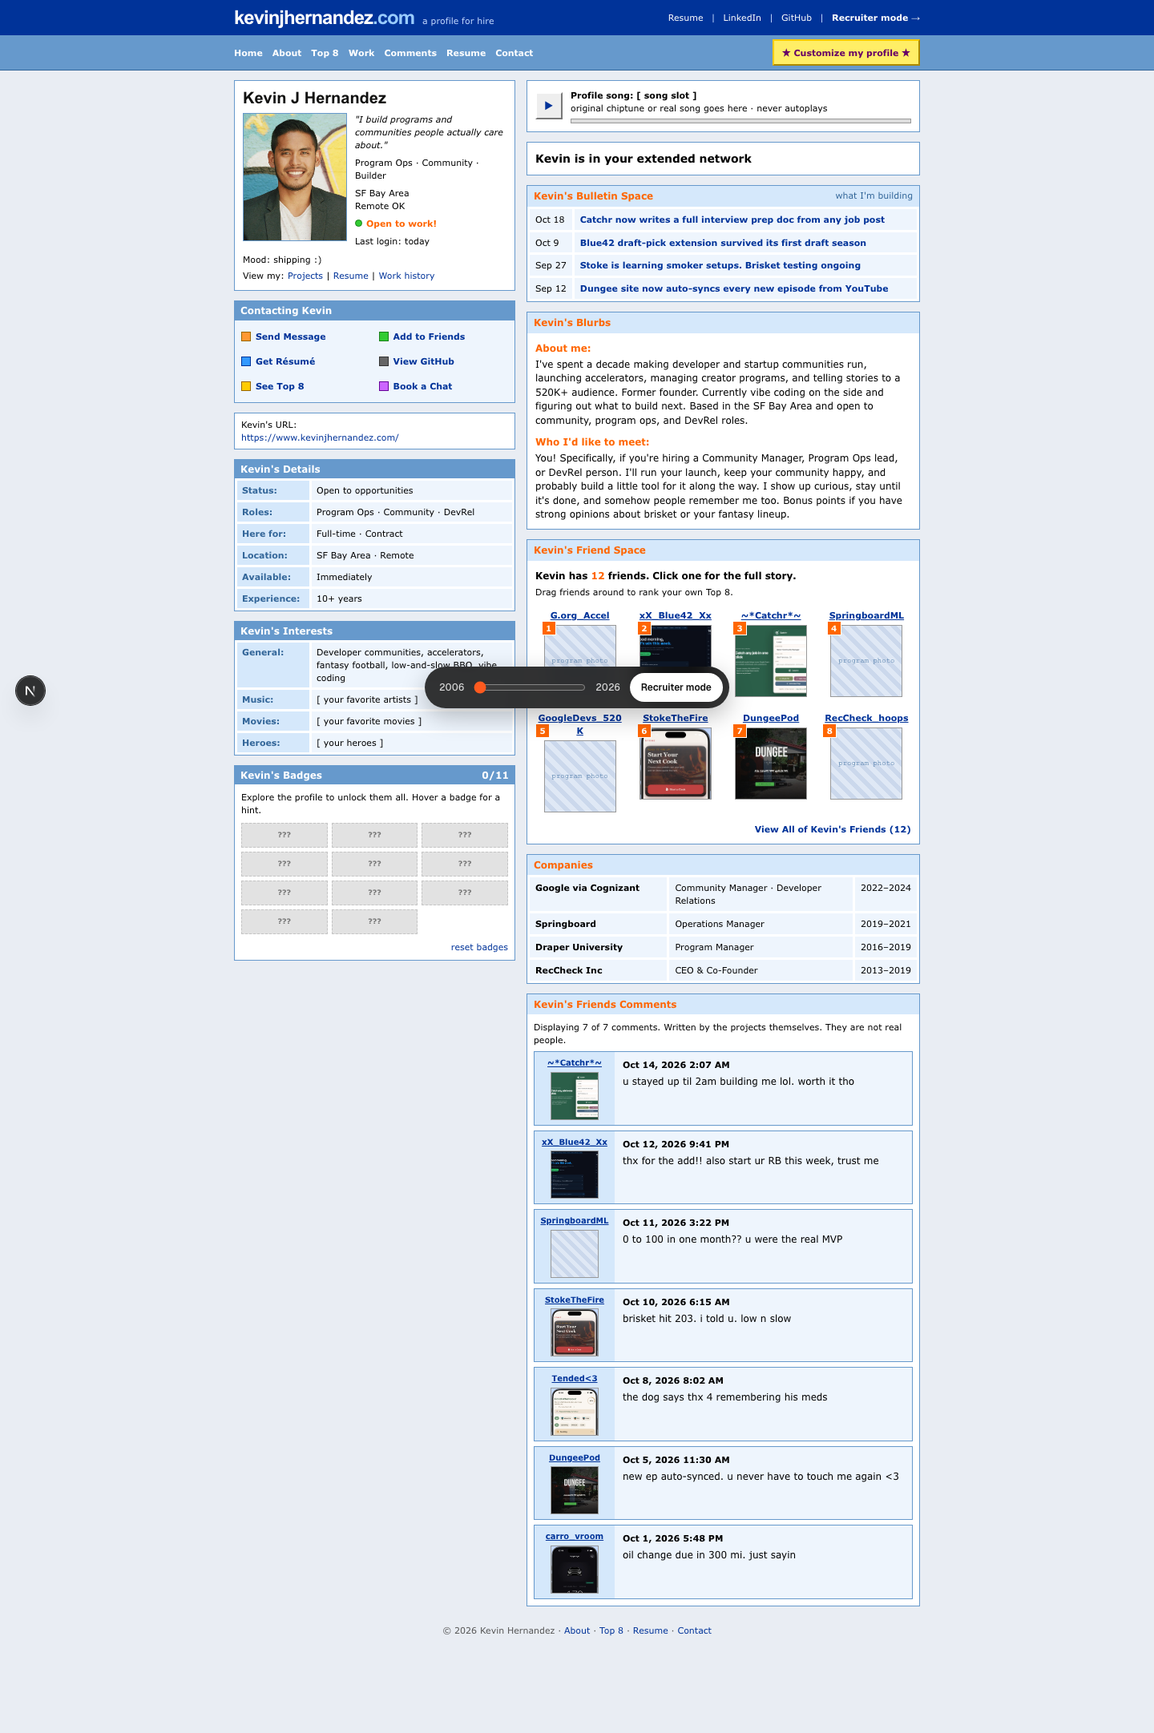
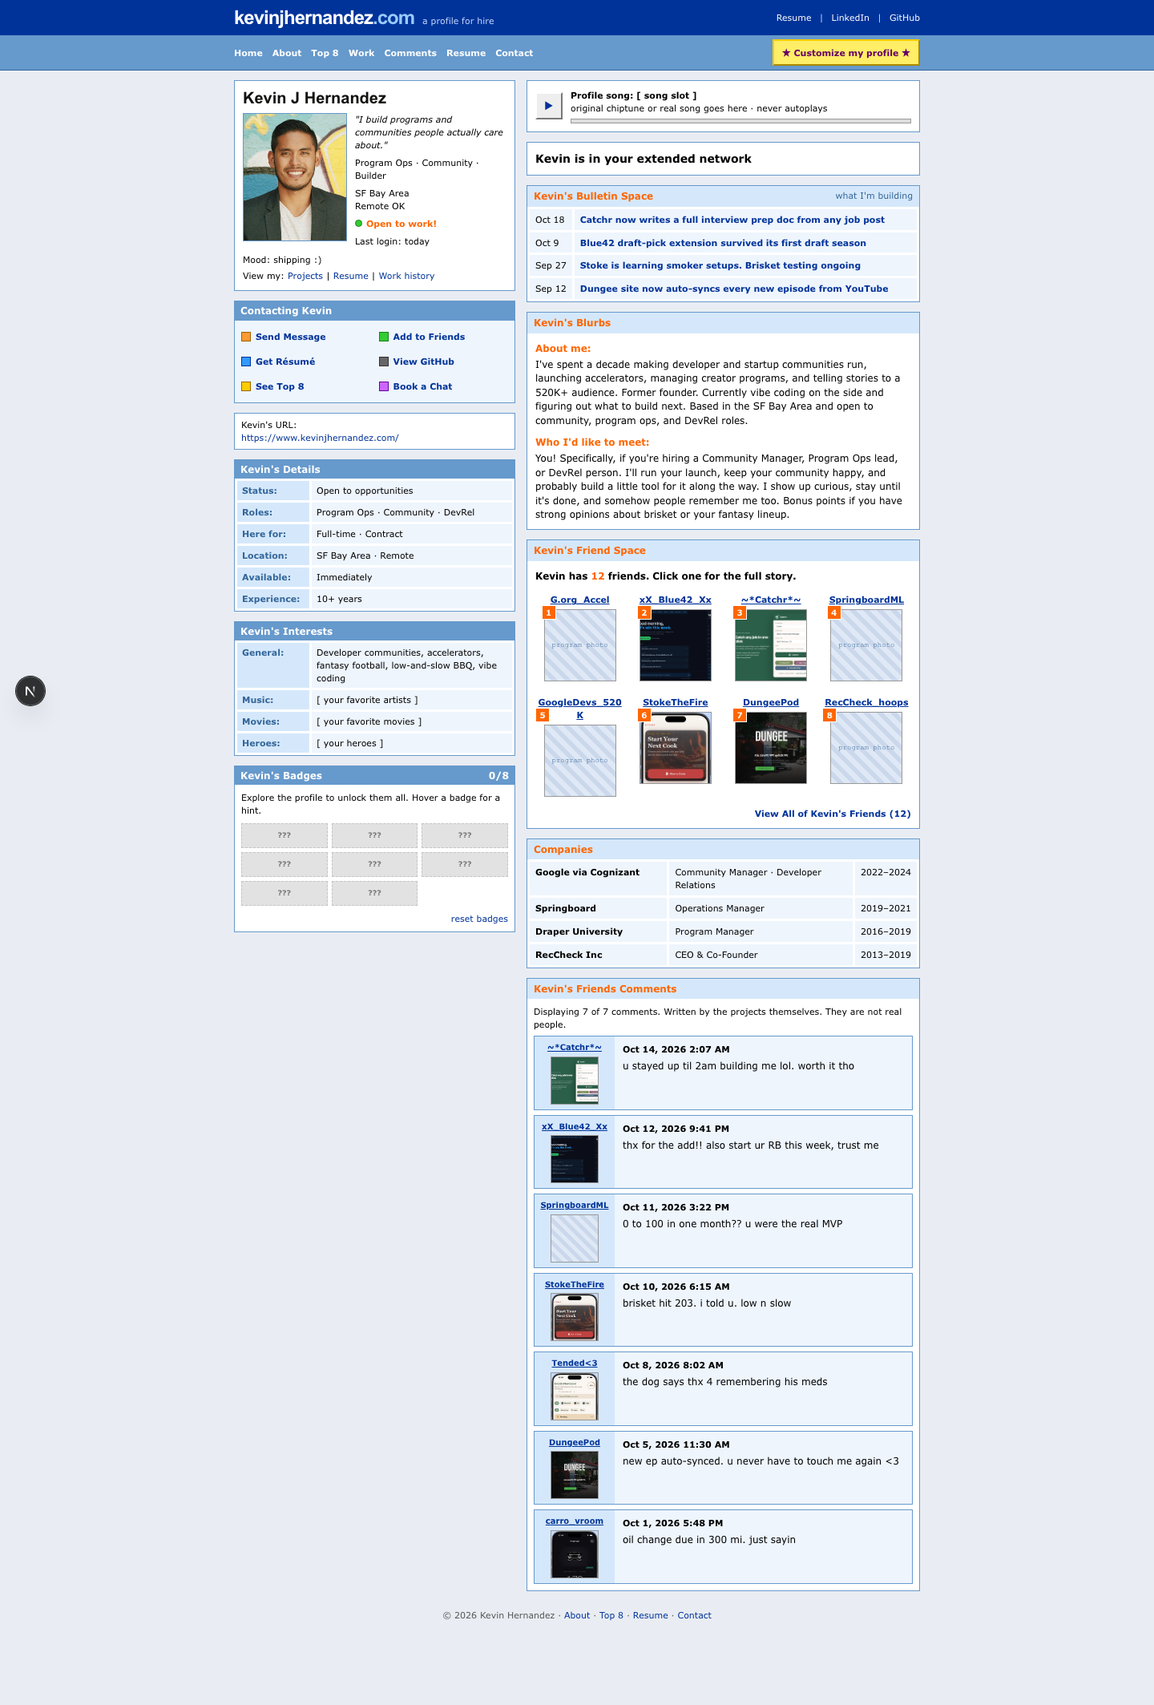
feat: remove slider, recruiter mode and Top 8 reorder from /profile
Kept in history at c9a60a3 for later.

diff --git a/components/profile/ProfileView.tsx b/components/profile/ProfileView.tsx
@@ -8,15 +8,14 @@ import FriendWindow from "./FriendWindow";
 import ResumeWindow from "./ResumeWindow";
 import ContactWindow from "./ContactWindow";
 import LayoutEditor from "./LayoutEditor";
-import RecruiterView from "./RecruiterView";
-import { computeLook, MODERN_FONT } from "@/lib/profile/look";
+import { computeLook } from "@/lib/profile/look";
 import {
   CUSTOM_FIELDS, DEFAULT_CUSTOM, FONT_CSS, PATTERNS, THEMES, THEME_ORDER, TRAIL_SET,
   buildCustom, isThemeKey, type CustomColors, type Theme, type PatternKey, type ThemeKey,
 } from "@/lib/profile/themes";
 import { GITHUB_URL, LINKEDIN_URL, RESUME_URL, badges as BADGES, friends, type Badge, type BadgeId } from "@/lib/data/profile";
 
-// Per-visitor progress (badges, Top 8 order). Convenience only: losing it is harmless.
+// Per-visitor progress (badges). Convenience only: losing it is harmless.
 const store = {
   get<T>(key: string, fallback: T): T {
     try { const v = JSON.parse(localStorage.getItem(key) ?? "null"); return v ?? fallback; } catch { return fallback; }
@@ -44,15 +43,10 @@ export default function ProfileView() {
   const [font, setFont] = useState("theme");
   const [trail, setTrail] = useState("theme");
   const [flip, setFlip] = useState(false);
-  const [era, setEra] = useState(0);
-  const [recruiter, setRecruiter] = useState(false);
   const [win, setWin] = useState<Window>(null);
   const [copied, setCopied] = useState(false);
   const [playing, setPlaying] = useState(false);
   const [showAll, setShowAll] = useState(false);
-  const [order, setOrder] = useState<number[] | null>(null);
-  const [drag, setDrag] = useState<number | null>(null);
-  const [over, setOver] = useState<number | null>(null);
   const [earned, setEarned] = useState<BadgeId[]>([]);
   const [seen, setSeen] = useState<number[]>([]);
   const [tried, setTried] = useState<string[]>([]);
@@ -63,14 +57,14 @@ export default function ProfileView() {
 
   // Restore saved progress and any shared layout from the URL (client only).
   useEffect(() => {
-    const saved = store.get<BadgeId[]>("kjh_badges", []);
+    const known = new Set<string>(BADGES.map((b) => b.id));
+    const saved = store.get<BadgeId[]>("kjh_badges", []).filter((id) => known.has(id));
     earnedRef.current = saved;
     // Browser storage and the URL only exist after hydration, so this must run in an effect.
     // eslint-disable-next-line react-hooks/set-state-in-effect
     setEarned(saved);
     setSeen(store.get("kjh_seen", []));
     setTried(store.get("kjh_tried", []));
-    setOrder(store.get<number[] | null>("kjh_order", null));
     setOrigin(location.origin + location.pathname);
 
     const q = new URLSearchParams(location.search);
@@ -84,7 +78,6 @@ export default function ProfileView() {
     if (tr && (TRAIL_SET[tr] || tr === "none")) setTrail(tr);
     if (pat && PATTERNS.some(([v]) => v === pat)) setPattern(pat as PatternKey);
     if (q.get("flip") === "1") setFlip(true);
-    if (q.get("recruiter") === "1") setRecruiter(true);
   }, []);
 
   const award = useCallback((id: BadgeId) => {
@@ -100,12 +93,10 @@ export default function ProfileView() {
     toastTimer.current = setTimeout(() => setToast(null), 3600);
   }, []);
 
-  const ranking = order ?? friends.map((_, i) => i);
-
   const seeFriend = (i: number) => {
     const nextSeen = seen.includes(i) ? seen : [...seen, i];
     if (nextSeen !== seen) { store.set("kjh_seen", nextSeen); setSeen(nextSeen); }
-    if (ranking.slice(0, 8).every((j) => nextSeen.includes(j))) award("collector");
+    if (friends.slice(0, 8).every((_, j) => nextSeen.includes(j))) award("collector");
     if (nextSeen.length >= friends.length) award("completionist");
   };
 
@@ -129,21 +120,6 @@ export default function ProfileView() {
     if (THEME_ORDER.every((o) => nextTried.includes(o))) award("fashionista");
   };
 
-  const reorder = (from: number, to: number) => {
-    if (to < 0 || to >= ranking.length || from === to) return;
-    const next = [...ranking];
-    const [moved] = next.splice(from, 1);
-    next.splice(to, 0, moved);
-    store.set("kjh_order", next);
-    transition(() => setOrder(next));
-    award("tastemaker");
-  };
-
-  const toggleRecruiter = () => {
-    if (!recruiter) award("business");
-    transition(() => { setRecruiter((r) => !r); setWin(null); });
-  };
-
   // Escape closes any open window.
   useEffect(() => {
     const onKey = (e: KeyboardEvent) => { if (e.key === "Escape") setWin(null); };
@@ -152,12 +128,13 @@ export default function ProfileView() {
   }, []);
 
   const T: Theme = theme === "custom" ? buildCustom(custom, pattern) : THEMES[theme];
-  const look = computeLook(T, era, font);
-  const chaos = theme !== "classic" && era < 50;
+  // The 2006→2026 slider is removed for now, so the page always renders the 2006 end.
+  const look = computeLook(T, 0, font);
+  const chaos = theme !== "classic";
 
-  // Cursor sparkle trail — retro half of the slider only, never with reduced motion.
+  // Cursor sparkle trail — never with reduced motion.
   const sparkle = trail === "none" ? null : TRAIL_SET[trail] ?? T.spark ?? null;
-  const sparkleOn = !!sparkle && era < 50 && !recruiter;
+  const sparkleOn = !!sparkle;
   const sparkleRef = useRef(sparkle);
   useEffect(() => { sparkleRef.current = sparkle; });
   useEffect(() => {
@@ -185,7 +162,7 @@ export default function ProfileView() {
 
   const shareUrl = `${origin}?layout=${CUSTOM_FIELDS.map(([k]) => custom[k].slice(1)).join(",")}&pat=${pattern}${font !== "theme" ? "&font=" + font : ""}${trail !== "theme" ? "&trail=" + trail : ""}${flip ? "&flip=1" : ""}`;
 
-  const shown: RankedFriend[] = ranking.map((index) => ({ friend: friends[index], index }));
+  const shown: RankedFriend[] = friends.map((friend, index) => ({ friend, index }));
   const { t } = look;
   const topLink: CSSProperties = { color: "#fff" };
   const navLink: CSSProperties = { color: "#fff", padding: "4px 0" };
@@ -198,9 +175,9 @@ export default function ProfileView() {
     <div
       className="kjh-root"
       data-era={look.late ? "modern" : "retro"}
-      style={{ position: "relative", minHeight: "100vh", fontSize: look.fs, lineHeight: 1.45, color: "#000", fontFamily: look.font, background: look.pageBg, paddingBottom: 96 }}
+      style={{ position: "relative", minHeight: "100vh", fontSize: look.fs, lineHeight: 1.45, color: "#000", fontFamily: look.font, background: look.pageBg, paddingBottom: 80 }}
     >
-      <div aria-hidden style={{ position: "fixed", inset: 0, zIndex: 0, ...T.wall, opacity: 1 - era / 100 }} />
+      <div aria-hidden style={{ position: "fixed", inset: 0, zIndex: 0, ...T.wall }} />
       <div style={{ position: "relative", zIndex: 1 }}>
         <header>
           <div style={{ background: look.bar1 }}>
@@ -214,8 +191,7 @@ export default function ProfileView() {
               <nav aria-label="Elsewhere" style={{ display: "flex", gap: 10, fontSize: 11, color: "#c3d9ff", alignItems: "center", flexWrap: "wrap" }}>
                 <a href={RESUME_URL} target="_blank" rel="noopener noreferrer" className="kjh-hit" style={topLink}>Resume</a><span aria-hidden>|</span>
                 <a href={LINKEDIN_URL} target="_blank" rel="noopener noreferrer" className="kjh-hit" style={topLink}>LinkedIn</a><span aria-hidden>|</span>
-                <a href={GITHUB_URL} target="_blank" rel="noopener noreferrer" className="kjh-hit" style={topLink}>GitHub</a><span aria-hidden>|</span>
-                <a href="?recruiter=1" onClick={(e) => { e.preventDefault(); toggleRecruiter(); }} className="kjh-hit" style={{ ...topLink, fontWeight: "bold" }}>Recruiter mode →</a>
+                <a href={GITHUB_URL} target="_blank" rel="noopener noreferrer" className="kjh-hit" style={topLink}>GitHub</a>
               </nav>
             </div>
           </div>
@@ -266,20 +242,11 @@ export default function ProfileView() {
             look={look}
             shown={showAll ? shown : shown.slice(0, 8)}
             showAll={showAll}
-            customOrder={!!order}
-            drag={drag}
-            over={over}
             playing={playing}
             onTogglePlay={() => setPlaying((v) => !v)}
             onOpenFriend={openFriend}
             onBulletin={(i) => { award("reader"); openFriend(i); }}
             onToggleAll={() => setShowAll((v) => !v)}
-            onResetOrder={() => { store.set("kjh_order", null); transition(() => setOrder(null)); }}
-            onDragStart={setDrag}
-            onDragOver={(pos) => { if (over !== pos) setOver(pos); }}
-            onDrop={(pos) => { if (drag !== null) reorder(drag, pos); setDrag(null); setOver(null); }}
-            onDragEnd={() => { setDrag(null); setOver(null); }}
-            onMove={reorder}
           />
         </main>
 
@@ -287,8 +254,6 @@ export default function ProfileView() {
           © 2026 Kevin Hernandez · <a href="#about" className="kjh-hit" style={{ color: t.link }}>About</a> · <a href="#top8" className="kjh-hit" style={{ color: t.link }}>Top 8</a> · <a href={RESUME_URL} target="_blank" rel="noopener noreferrer" className="kjh-hit" style={{ color: t.link }}>Resume</a> · <a href="#contact" className="kjh-hit" style={{ color: t.link }}>Contact</a>
         </footer>
       </div>
-
-      {recruiter && <RecruiterView onBack={toggleRecruiter} onResume={openResume} onContact={openContact} onOpenFriend={openFriend} />}
 
       {win?.kind === "friend" && (
         <FriendWindow look={look} friend={friends[win.index]} onClose={close} onPrev={() => openFriend(win.index - 1)} onNext={() => openFriend(win.index + 1)} />
@@ -317,7 +282,7 @@ export default function ProfileView() {
         />
       )}
 
-      <div role="status" aria-live="polite" style={{ position: "fixed", right: 16, bottom: "calc(84px + env(safe-area-inset-bottom))", zIndex: 70, width: 260, maxWidth: "calc(100vw - 32px)", pointerEvents: "none" }}>
+      <div role="status" aria-live="polite" style={{ position: "fixed", right: 16, bottom: "calc(16px + env(safe-area-inset-bottom))", zIndex: 70, width: 260, maxWidth: "calc(100vw - 32px)", pointerEvents: "none" }}>
         {toast && (
           <div style={{ background: look.winBg, border: look.winBorder, boxShadow: look.winShadow, borderRadius: look.r2, overflow: "hidden", viewTransitionName: "kjh-toast" }}>
             <div style={{ background: look.titleBg, color: look.titleText, fontWeight: "bold", fontSize: 11, padding: look.titlePad }}>★ Achievement unlocked!</div>
@@ -329,25 +294,6 @@ export default function ProfileView() {
         )}
       </div>
 
-      <div style={{ position: "fixed", left: "50%", bottom: "calc(16px + env(safe-area-inset-bottom))", transform: "translateX(-50%)", zIndex: 48, display: "flex", alignItems: "center", gap: 12, padding: "8px 8px 8px 18px", borderRadius: 999, background: "rgba(18,18,18,.86)", backdropFilter: "blur(14px)", color: "#fff", font: `500 12px ${MODERN_FONT}`, boxShadow: "0 10px 30px rgba(0,0,0,.25)", maxWidth: "calc(100vw - 24px)", boxSizing: "border-box" }}>
-        <span style={{ opacity: 0.8 }}>2006</span>
-        <input
-          type="range"
-          min={0}
-          max={100}
-          value={era}
-          onChange={(e) => { const v = +e.target.value; setEra(v); if (v >= 98) award("traveler"); }}
-          aria-label="Slide from 2006 to 2026 styling"
-          style={{ width: 140, minWidth: 0, flexShrink: 1, cursor: "pointer" }}
-        />
-        <span style={{ opacity: 0.8 }}>2026</span>
-        <button
-          onClick={toggleRecruiter}
-          style={{ font: `600 12px ${MODERN_FONT}`, padding: "8px 14px", minHeight: 36, borderRadius: 999, border: 0, background: "#fff", color: "#121212", cursor: "pointer", whiteSpace: "nowrap" }}
-        >
-          {recruiter ? "Fun mode" : "Recruiter mode"}
-        </button>
-      </div>
     </div>
   );
 }

diff --git a/components/profile/ProfileMain.tsx b/components/profile/ProfileMain.tsx
@@ -10,20 +10,11 @@ type Props = {
   look: Look;
   shown: RankedFriend[];
   showAll: boolean;
-  customOrder: boolean;
-  drag: number | null;
-  over: number | null;
   playing: boolean;
   onTogglePlay: () => void;
   onOpenFriend: (index: number) => void;
   onBulletin: (index: number) => void;
   onToggleAll: () => void;
-  onResetOrder: () => void;
-  onDragStart: (pos: number) => void;
-  onDragOver: (pos: number) => void;
-  onDrop: (pos: number) => void;
-  onDragEnd: () => void;
-  onMove: (from: number, to: number) => void;
 };
 
 const stripes = (size: number) => `repeating-linear-gradient(45deg,#dfe8f5 0 ${size}px,#cbd8ec ${size}px ${size * 2}px)`;
@@ -94,35 +85,18 @@ export default function ProfileMain(p: Props) {
       </RetroBox>
 
       <RetroBox look={look} id="top8" variant="label" title="Kevin's Friend Space" bodyStyle={{ padding: 10 }}>
-        <div style={{ fontWeight: "bold", marginBottom: 8 }}>
+        <div style={{ fontWeight: "bold", marginBottom: 10 }}>
           Kevin has <span style={{ color: t.accent }}>{friends.length}</span> friends. Click one for the full story.
-        </div>
-        <div style={{ fontSize: 11, margin: "-4px 0 10px", display: "flex", justifyContent: "space-between", gap: 8, flexWrap: "wrap" }}>
-          <span>Drag friends around to rank your own Top 8.</span>
-          {p.customOrder && <a href="#top8" onClick={pd(p.onResetOrder)} className="kjh-hit" style={{ color: t.link, fontWeight: "bold" }}>Reset to Kevin&apos;s order</a>}
         </div>
         <ol style={{ listStyle: "none", margin: 0, padding: 0, display: "grid", gridTemplateColumns: "repeat(auto-fill,minmax(92px,1fr))", gap: "12px 8px" }}>
           {p.shown.map(({ friend, index }, pos) => (
             <li key={index} style={{ display: "flex", justifyContent: "center" }}>
               <button
                 onClick={() => p.onOpenFriend(index)}
-                onKeyDown={(e) => {
-                  // Alt + arrow keys reorder without dragging
-                  if (!e.altKey) return;
-                  if (e.key === "ArrowLeft" || e.key === "ArrowUp") { e.preventDefault(); p.onMove(pos, pos - 1); }
-                  if (e.key === "ArrowRight" || e.key === "ArrowDown") { e.preventDefault(); p.onMove(pos, pos + 1); }
-                }}
                 aria-label={`#${pos + 1} ${friend.screen}: ${friend.name}`}
-                draggable
-                onDragStart={(e) => { e.dataTransfer.effectAllowed = "move"; e.dataTransfer.setData("text/plain", String(pos)); p.onDragStart(pos); }}
-                onDragOver={(e) => { e.preventDefault(); p.onDragOver(pos); }}
-                onDrop={(e) => { e.preventDefault(); p.onDrop(pos); }}
-                onDragEnd={p.onDragEnd}
                 className="kjh-fade"
                 style={{
-                  all: "unset", cursor: "grab", display: "flex", flexDirection: "column", alignItems: "center", gap: 4, textAlign: "center", position: "relative", padding: 3,
-                  opacity: p.drag === pos ? 0.35 : 1,
-                  outline: p.over === pos && p.drag !== pos ? `2px dashed ${t.accent}` : undefined, outlineOffset: 2,
+                  all: "unset", cursor: "pointer", display: "flex", flexDirection: "column", alignItems: "center", gap: 4, textAlign: "center", position: "relative", padding: 3,
                 }}
               >
                 <span aria-hidden style={{ position: "absolute", top: 18, left: 0, zIndex: 1, minWidth: 18, height: 18, padding: "0 3px", boxSizing: "border-box", display: "flex", alignItems: "center", justifyContent: "center", background: t.accent, color: t.box, font: "bold 10px Verdana,sans-serif", border: `1px solid ${t.box}` }}>{pos + 1}</span>

diff --git a/lib/data/profile.ts b/lib/data/profile.ts
@@ -30,12 +30,9 @@ export type Badge = {
 export type BadgeId =
   | "collector"
   | "completionist"
-  | "tastemaker"
   | "decorator"
   | "fashionista"
   | "diy"
-  | "traveler"
-  | "business"
   | "paper"
   | "reader"
   | "penpal";
@@ -241,22 +238,12 @@ export const bulletins: Bulletin[] = [
 export const badges: Badge[] = [
   { id: "collector", text: "Top 8 Fan", hint: "Open every friend in the Top 8", desc: "You met all of my Top 8.", bg: "#ff33cc", fg: "#ffff00" },
   { id: "completionist", text: "Completionist", hint: "Open all 12 friends", desc: "Every single friend. Respect.", bg: "#000000", fg: "#33ff33" },
-  { id: "tastemaker", text: "Tastemaker", hint: "Rearrange the Top 8", desc: "Your Top 8, your rules.", bg: "#ffcc00", fg: "#cc0000" },
   { id: "decorator", text: "Decorator", hint: "Try 5 different layouts", desc: "Five layouts tried on.", bg: "#66ffff", fg: "#003399" },
   { id: "fashionista", text: "Fashionista", hint: "Try every layout", desc: "You tried on the whole closet.", bg: "#663399", fg: "#ffd76a" },
   { id: "diy", text: "DIY Designer", hint: "Build your own layout and copy the link", desc: "Custom layout shared.", bg: "#ff6600", fg: "#ffffff" },
-  { id: "traveler", text: "Time Traveler", hint: "Slide all the way to 2026", desc: "Welcome to the future.", bg: "#151515", fg: "#ffffff" },
-  { id: "business", text: "All Business", hint: "Open recruiter mode", desc: "Strictly professional now.", bg: "#ffffff", fg: "#151515" },
   { id: "paper", text: "Paper Trail", hint: "Open the résumé", desc: "Résumé acquired.", bg: "#3399ff", fg: "#ffffff" },
   { id: "reader", text: "Bulletin Reader", hint: "Open a bulletin", desc: "Caught up on the bulletins.", bg: "#33cc33", fg: "#003300" },
   { id: "penpal", text: "Pen Pal", hint: "Send Kevin a message", desc: "Message sent. thx for the add!", bg: "#ff99cc", fg: "#990033" },
-];
-
-export const results: Metric[] = [
-  { value: "4.9/5", label: "CSAT, Google.org GenAI Accelerator" },
-  { value: "520K+", label: "Developer audience managed" },
-  { value: "0→100", label: "NPS turnaround in one month" },
-  { value: "$25K", label: "Raised as a founder" },
 ];
 
 export const profileIntro = {
@@ -290,12 +277,6 @@ export const blurbs = {
     "I've spent a decade making developer and startup communities run, launching accelerators, managing creator programs, and telling stories to a 520K+ audience. Former founder. Currently vibe coding on the side and figuring out what to build next. Based in the SF Bay Area and open to community, program ops, and DevRel roles.",
   meet:
     "You! Specifically, if you're hiring a Community Manager, Program Ops lead, or DevRel person. I'll run your launch, keep your community happy, and probably build a little tool for it along the way. I show up curious, stay until it's done, and somehow people remember me too. Bonus points if you have strong opinions about brisket or your fantasy lineup.",
-};
-
-export const recruiterIntro = {
-  status: "Open to work · SF Bay Area or remote · full-time or contract",
-  headline: "Community, Program Ops & DevRel.",
-  body: "I've spent a decade making developer and startup communities run: launching accelerators, managing creator programs, and telling stories to a 520K+ audience. Former founder.",
 };
 
 export const profileSong = {

diff --git a/PROGRESS.md b/PROGRESS.md
@@ -1,18 +1,19 @@
 # Portfolio progress
 
-HANDOFF-ANCHOR: a8109e8
+HANDOFF-ANCHOR: c9a60a3
 
-Health: VERIFIED — /profile test page, 2026-10-21. TypeScript and lint clean on new files; screenshots at 375/768/1440px; no console errors; no horizontal scroll. Contact form not submitted during testing (it sends a real email). Production build not run.
+Health: VERIFIED — /profile test page, 2026-10-21 (after removals). TypeScript and lint clean on new files; screenshots at 375/768/1440px; no console errors; no horizontal scroll. Contact form not submitted during testing (it sends a real email). Production build not run.
 
 ## Current checkpoint — /profile test page (2026-10-21)
 
 Kevin's Claude Design "Kevin Profile" (MySpace-style profile) is built as a separate route at `/profile`. The homepage is unchanged and does not link to it. The route is marked noindex.
 
 - Route: `app/profile/` (page + scoped CSS). Components: `components/profile/`. Content: `lib/data/profile.ts`. Themes and slider maths: `lib/profile/`.
-- Features ported: 16 layouts plus custom colors and share link, cursor trail, 2006→2026 slider, Recruiter mode (also `?recruiter=1`), draggable Top 8 (Alt+arrow keys also reorder), badges saved in the visitor's browser, résumé viewer, project windows.
-- Changes from the design, after read-only design review (REVISE): Recruiter mode link added to the top bar; message form uses the existing contact email action with sending and error states and a hidden spam trap; reduced-motion users get no trail, marquee or glitter; windows trap focus and return it on close; fixed a design bug where picking a custom color reset other settings; local screenshots replace remote image links.
+- Features: 16 layouts plus custom colors and share link, cursor trail, Top 8 (fixed order), 8 badges saved in the visitor's browser, résumé viewer, project windows.
+- Removed at Kevin's request (2026-10-21), "for now": the 2006→2026 slider, Recruiter mode, and Top 8 reordering, plus their three badges. Full versions are in commit c9a60a3 (`components/profile/RecruiterView.tsx`, slider pill and drag code in `ProfileView.tsx` / `ProfileMain.tsx`). `lib/profile/look.ts` still supports the slider; the page passes era 0.
+- Changes from the design, after read-only design review (REVISE): message form uses the existing contact email action with sending and error states and a hidden spam trap; reduced-motion users get no trail, marquee or glitter; windows trap focus and return it on close; fixed a design bug where picking a custom color reset other settings; local screenshots replace remote image links.
 - Still placeholder from the design: profile song, and Music / Movies / Heroes interests.
-- Not done from the review: contrast check of all 16 layouts; touch-friendly reordering for Top 8.
+- Not done from the review: contrast check of all 16 layouts.
 - Screenshots: `design-system/previews/screenshots/profile/`.
 
 ## Next
